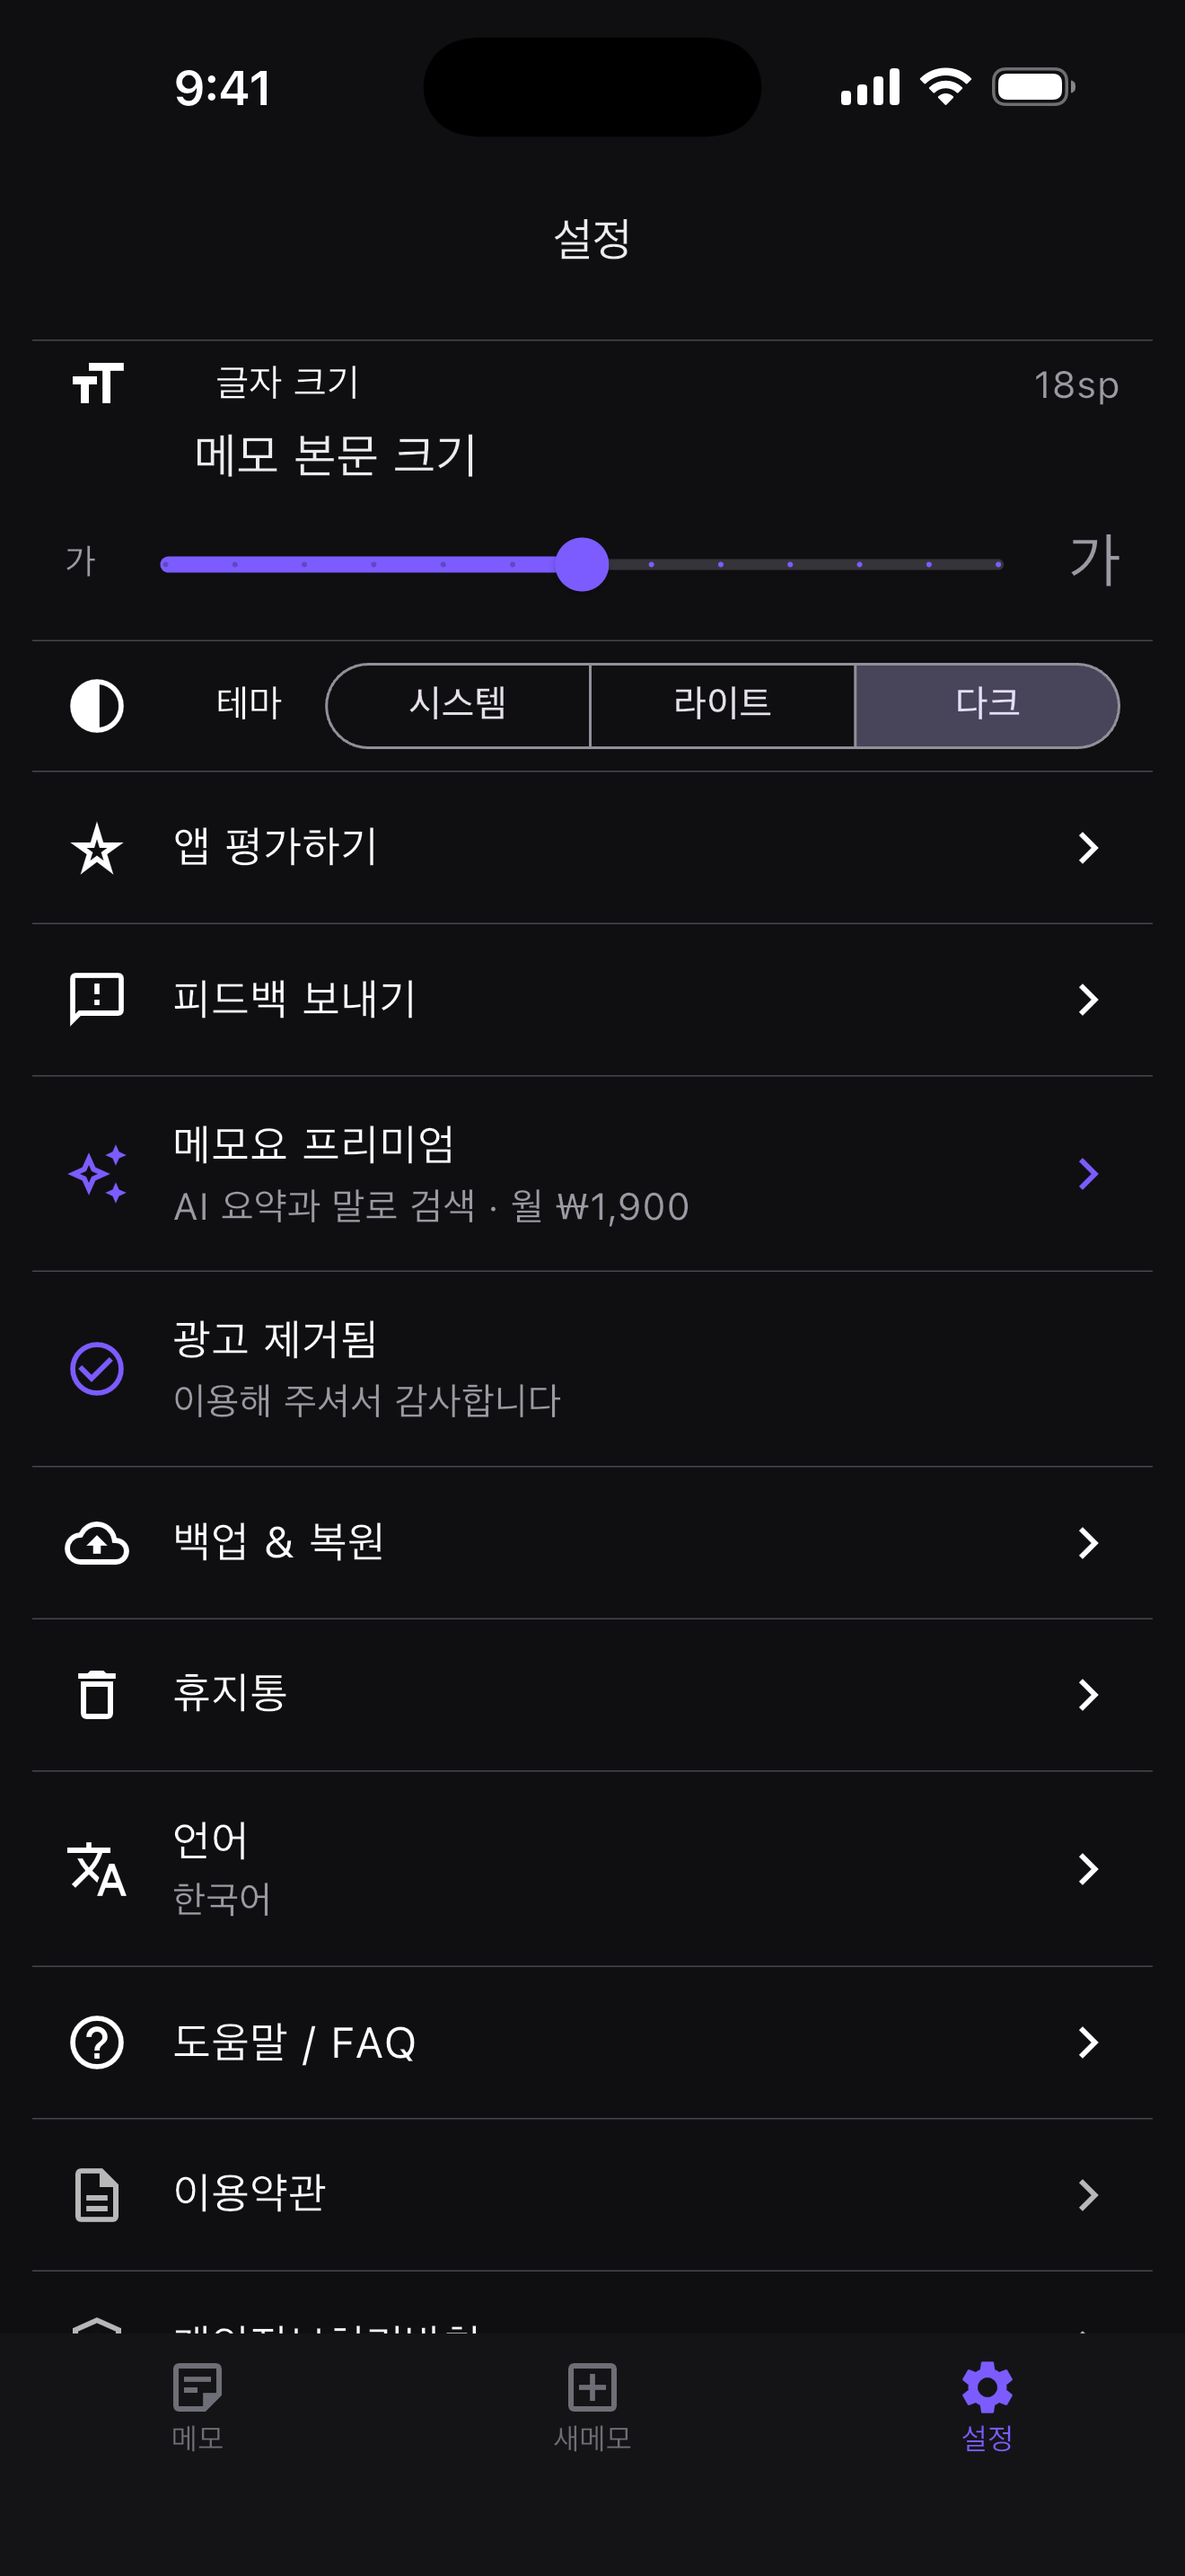
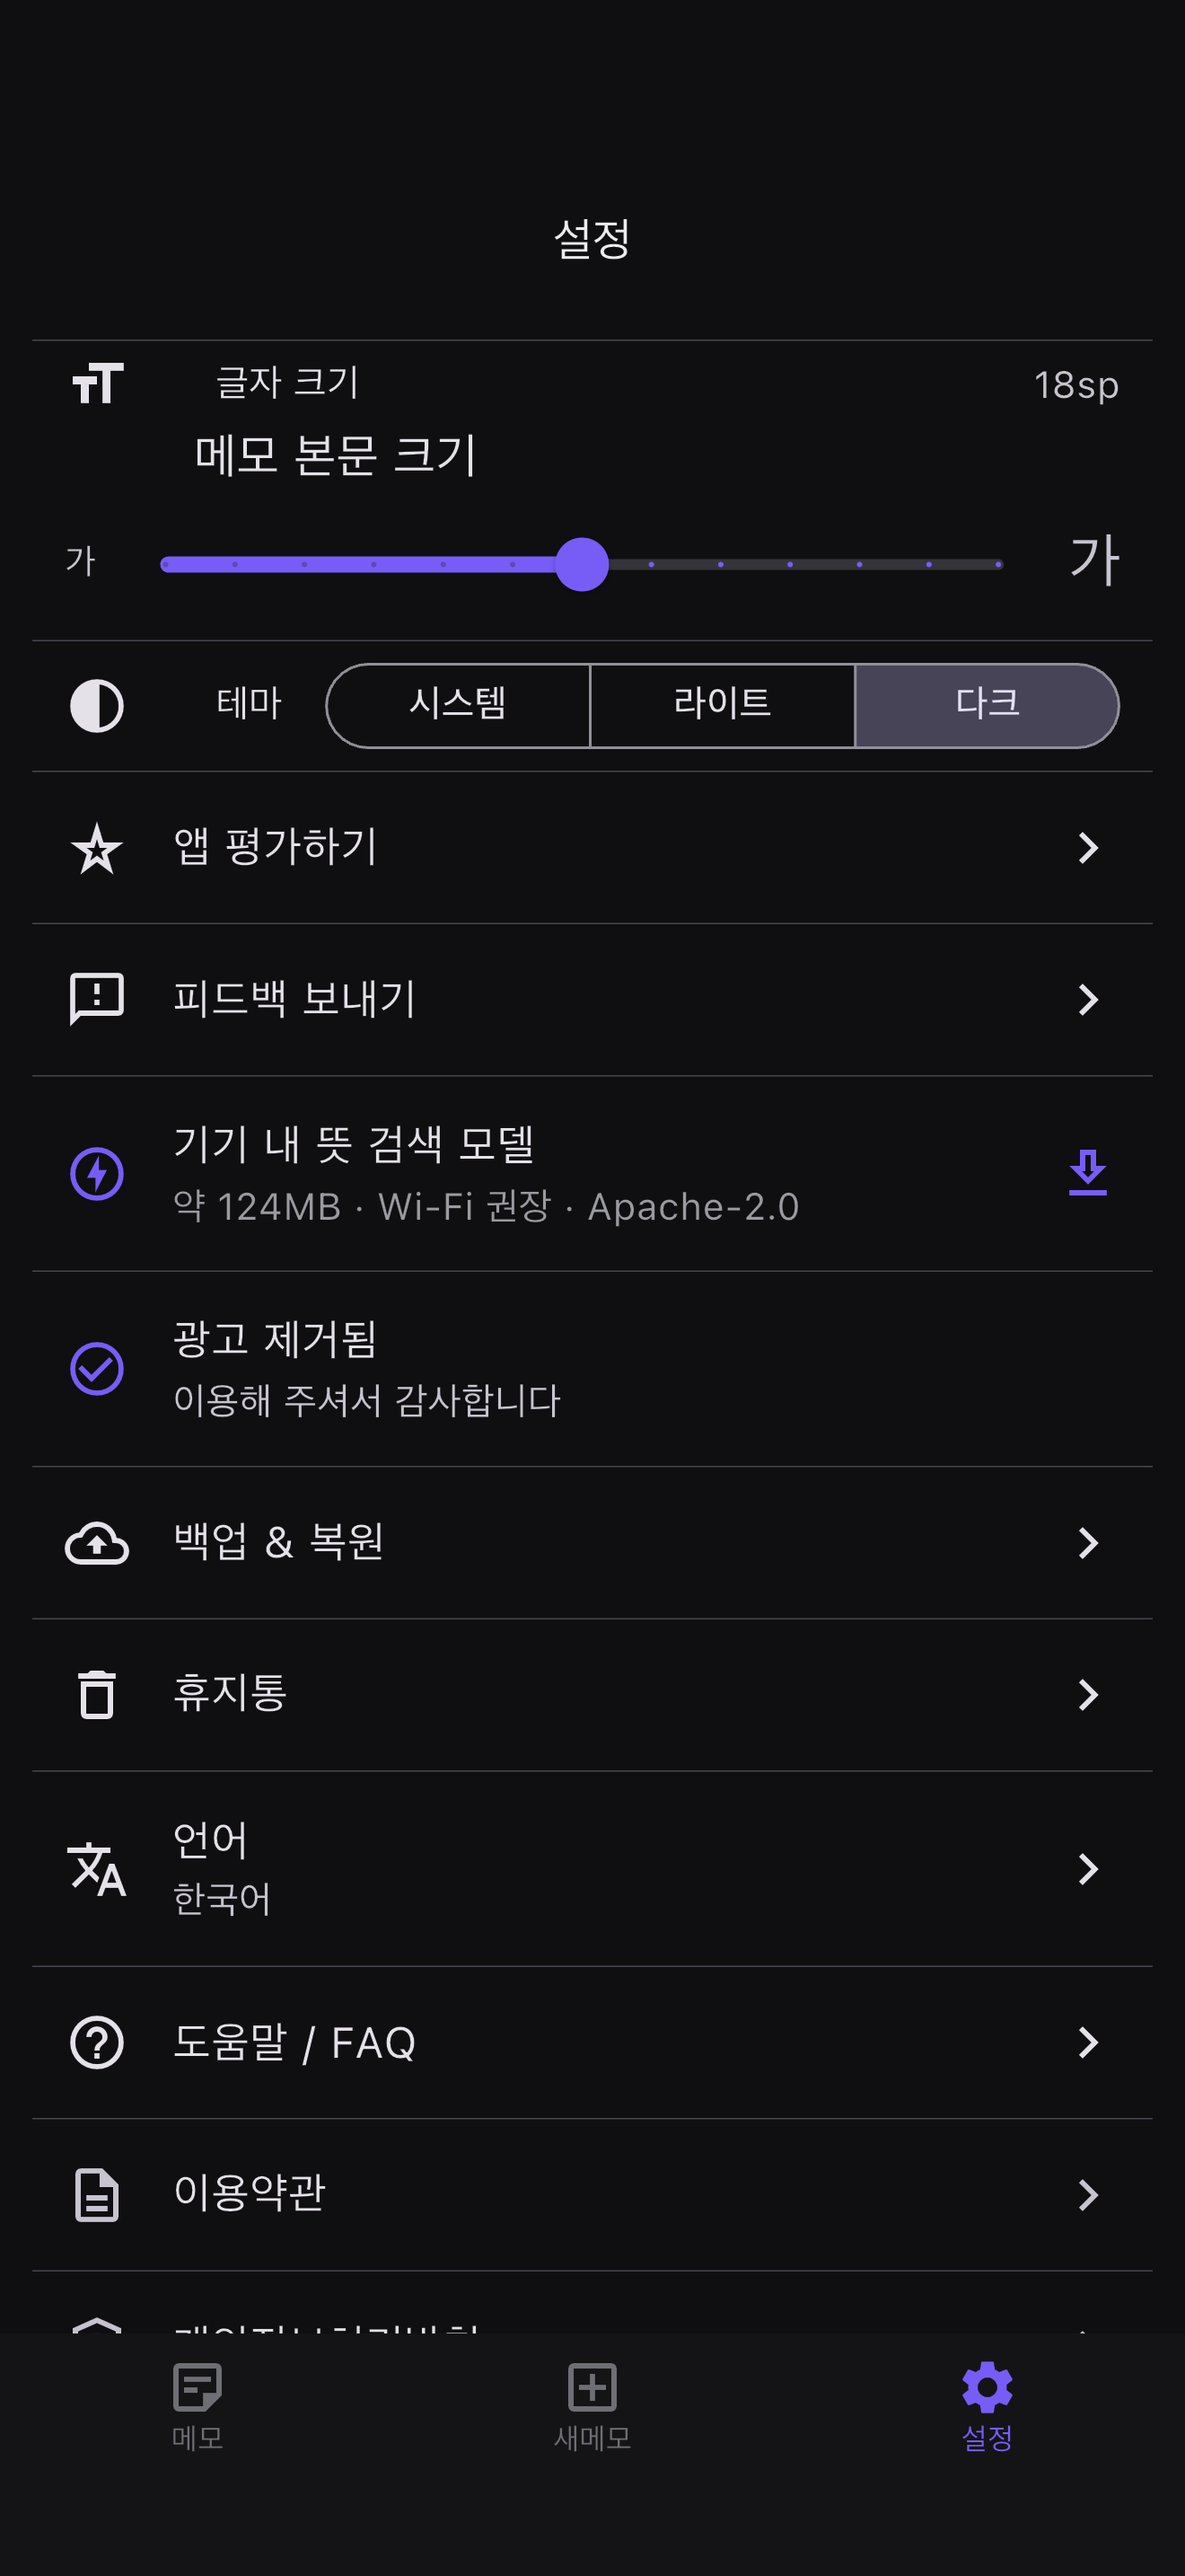
fix(store): 폐지기능이 픽셀에 구워진 스토어 스크린샷을 재생성한다 (T-260805-129)
PR#124 가 compose_store_screenshots.py 의 SCENES 만 고치고 산출 PNG 를 재생성하지
않아, 매니페스트에서 뺀 3컷(AI 요약·뜻으로 찾기·프리미엄 월 구독)의 옛 이미지가
tracked 상태로 남아 있었다. 07_settings.png 에는 「메모요 프리미엄 / AI 요약과 말로
검색 · 월 ₩1,900」이 픽셀에 구워져 있었고 캡션도 옛 문구였다 — 파일명 grep 으로는
안 잡히는 형태다.

★범위는 fastlane 경로까지다. 기존 티켓들은 store/screenshots/ko/ 만 지목했는데
fastlane deliver 가 업로드 원본으로 실제로 읽는 건 fastlane/screenshots/ 다. 사람이
눈으로 보는 폴더와 자동 업로드가 집어가는 폴더가 갈려 있었고, 후자는 아무도 안
잡고 있었다(최종커밋 2026-07-16). 그대로 두면 새로 캡처해도 옛 산출물이 올라간다.

- iPhone 17 Pro Max / iOS 26.4 시뮬레이터에서 1.0.18 코드로 재캡처 (4장, 전건 통과)
- 세 경로 갱신: store/screenshots/ko · fastlane/.../iPhone 6.9 Display · raw/ios-current-1.0.13
- 매니페스트에서 빠진 컷의 옛 산출물 9장 제거 (git 이력이 원본을 보관한다)
- README 를 실제 산출물·실제 재현 절차와 정합. 옛 재현 블록은 --raw build/screenshots
  로 적혀 있어 그대로 따라 하면 죽는다 (실산출은 build/screenshots/<label>/), driver
  경로도 실제 스크립트와 달랐다. --ios-out 을 빠뜨리면 fastlane 이 낡는다는 점을 명시.

검증 = macOS Vision OCR 로 픽셀을 읽어 대조. 파일명 축이 아니라 이미지 내용 축이다.
양성 대조군으로 머지 전 상태에서 같은 검사가 검출하는 것도 함께 확인했다
(store 3/7 · fastlane 4/7 HIT → 양쪽 0/4).

앱 코드·버전·release_notes 무접촉.

diff --git a/store/screenshots/ko/README.md b/store/screenshots/ko/README.md
@@ -1,38 +1,44 @@
-# 메모요 스토어 스크린샷 (ko) — 2026-07-16
+# 메모요 스토어 스크린샷 (ko) — 2026-08-05
 
-Flutter 3.44.0으로 iPhone 17 Pro Max(iOS 26.4)에서 실제 앱 화면을 캡처한 1.0.13 세트다. 원본은 1320×2868 RGB이며, Play용 이미지는 실제 화면을 1080×1920 캔버스에 비율 유지로 배치했다.
+Flutter 3.41.9로 iPhone 17 Pro Max(iOS 26.4) 시뮬레이터에서 실제 앱 화면을 캡처한 1.0.18 세트다. 원본은 1320×2868 RGB이며, Play용 이미지는 실제 화면을 1080×1920 캔버스에 비율 유지로 배치했다.
 
 ## Play용 1080×1920
 
-| 파일 | 기능 | 캡션 |
-| --- | --- | --- |
-| `01_dark_main.png` | 다크 메모 목록 | 생각난 순간 바로 기록 |
-| `02_quick_write.png` | 새 메모 입력 | 제목 없이 빠르게 쓰기 |
-| `03_ai_summary.png` | AI 요약 결과 | 긴 메모도 AI로 한눈에 |
-| `04_semantic_search.png` | 뜻으로 찾기 | 기억나는 말로 메모 찾기 |
-| `05_premium.png` | 프리미엄 월 구독 | 월 구독으로 AI 기능 열기 |
-| `06_drive_backup.png` | Google Drive 백업 | 내 Drive에 간편하게 백업 |
-| `07_settings.png` | 구독·복원·정책 | 구독·복원·정책까지 투명하게 |
+| 파일 | 기능 | 캡션 | raw |
+| --- | --- | --- | --- |
+| `01_dark_main.png` | 다크 메모 목록 | 생각난 순간 바로 기록 | `01-main.png` |
+| `02_quick_write.png` | 새 메모 입력 | 제목 없이 빠르게 쓰기 | `05-edit.png` |
+| `06_drive_backup.png` | Google Drive 백업 | 내 Drive에 간편하게 백업 | `03-backup.png` |
+| `07_settings.png` | 광고 제거·복원·정책 | 광고 제거·복원·정책까지 투명하게 | `02-settings.png` |
+
+★번호 구멍(03·04·05 결번)은 결함이 아니다. 출고본에 없는 기능의 컷 3장(AI 요약 · 뜻으로 찾기 · 프리미엄 월 구독)을 T-260805-082 로 매니페스트에서 뺀 자국이고, 남은 4장을 재번호하지 않는 이유는 이름순 정렬이 이미 노출 순서라서다. 매니페스트의 정본은 `scripts/compose_store_screenshots.py` 의 `SCENES` 다 — 이 표는 그 사본이니 어긋나면 SCENES 를 믿어라.
 
 ## 원본
 
-- `raw/ios-current-1.0.13/`: 이번 세트의 캡션 없는 실제 렌더 원본.
+- `raw/ios-current-1.0.13/`: 이번 세트의 캡션 없는 실제 렌더 원본 4장. ★디렉토리 이름의 `1.0.13` 은 처음 만들 때 붙은 이름이 굳은 것이고, 안에 든 것은 위 표와 같은 현행 세트다.
 - `raw/android/`, `raw/ios/`: 2026-06-04 이전 세트의 이력 보존본이며 이번 제출 소스가 아니다.
-- `fastlane/screenshots/ko/iPhone 6.9 Display/`: App Store용 1320×2868 RGB 원본.
+- `fastlane/screenshots/ko/iPhone 6.9 Display/`: App Store용 1320×2868 RGB 원본. ★`fastlane deliver` 가 업로드에 실제로 집어가는 건 이 디렉토리다 — 여기를 갱신하지 않으면 이 폴더를 아무리 고쳐도 옛 이미지가 올라간다 (T-260805-129).
 
 ## 재현
 
 ```sh
-flutter drive \
-  --driver test_driver/integration_test.dart \
-  --target integration_test/screenshot_test.dart \
-  -d <ios-sim-udid>
+# ① 캡처 — 시뮬레이터 실 렌더를 build/screenshots/<label>/ 로 산출
+SHOT_ONLY=iphone-6.9 bash scripts/gen-store-screenshots.sh
 
+# ② 합성 — 세 출력 경로를 한 번에 채운다. ★--ios-out 을 빠뜨리면 fastlane 업로드분이 낡는다
 python3 scripts/compose_store_screenshots.py \
-  --raw build/screenshots \
+  --raw build/screenshots/iphone-6.9 \
   --out store/screenshots/ko \
   --raw-out store/screenshots/ko/raw/ios-current-1.0.13 \
   --ios-out "fastlane/screenshots/ko/iPhone 6.9 Display"
 ```
 
-하니스는 데모 메모와 프리미엄 테스트 상태를 로컬에만 주입한다. 결제·네트워크 요청 없이 앱의 실제 위젯과 테스트 전송 계층으로 AI 요약·뜻으로 찾기 결과를 렌더한다.
+①의 산출 경로는 `build/screenshots/<label>/` 이라 ②의 `--raw` 에 그 하위(`iphone-6.9`)까지 적어야 한다. 상위만 주면 `raw 없음` 으로 죽는다.
+
+하니스는 데모 메모를 로컬에만 주입한다. 결제·네트워크 요청 없이 앱의 실제 위젯을 렌더한다.
+
+## 갱신할 때
+
+캡처를 다시 뜨면 ★매니페스트에서 빠진 컷의 옛 산출물이 세 경로에 그대로 남는다. ②는 SCENES 에 있는 파일만 덮어쓰고, 없어진 파일은 지우지 않기 때문이다. PR#124 가 SCENES 만 고치고 PNG 를 남겨 폐지 문구가 픽셀에 구워진 채 3주를 버틴 게 이 경우다(T-260805-129). 컷을 뺐다면 세 경로에서 그 파일도 함께 지워라.
+
+검증은 파일명 grep 으로 부족하다 — 문구가 이미지 안에 렌더돼 있어서다. macOS Vision OCR 로 픽셀을 읽어 대조하고, 반드시 ★머지 전 상태에서도 같은 검사로 검출되는지(양성 대조군) 함께 확인해라. 안 그러면 계기가 항상 초록인지 구분이 안 된다.
